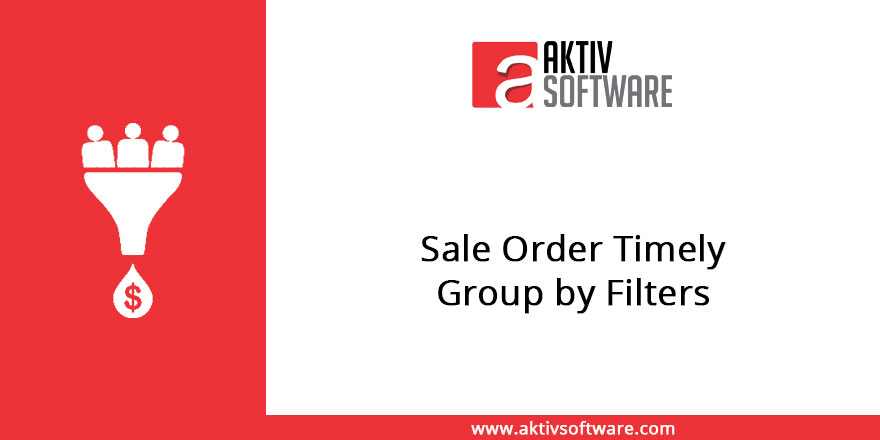
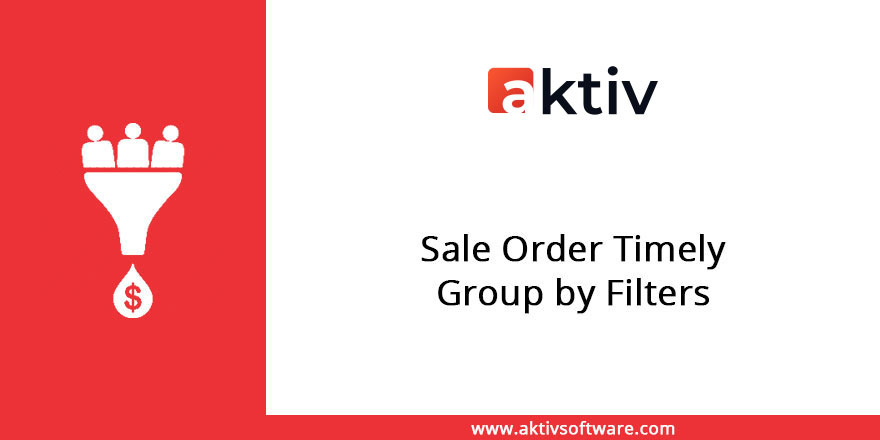
[ADD] change image in 9.0

Changed region(s): [[0.5216, 0.0886, 0.767, 0.2659]]

diff --git a/sale_order_duration_filter/static/description/index.html b/sale_order_duration_filter/static/description/index.html
@@ -38,7 +38,7 @@
     <div class="oe_row oe_spaced">
         <h2 class="oe_slogan">
             <a href="http://aktivsoftware.com/" target="new">
-                <img src="http://aktivsoftware.com/wp-content/uploads/2018/01/logo-1.png"/>
+                <img src="aktiv-logo.png"/>
             </a>
             <br/>
             <a href="mailto:sales@aktivsoftware.com" style="color: #000000 !important;">
